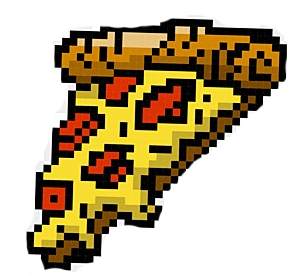
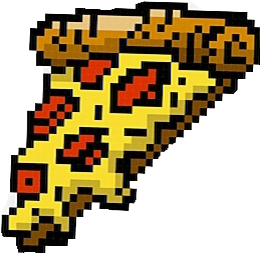
made some changes to pizza finished view and was working on the lose view

diff --git a/src/application/application.css b/src/application/application.css
@@ -148,3 +148,11 @@ Text {
     -fx-background-color: #ba3702;
     -fx-background-insets: 1;
 }
+
+#gameOverLabel{
+	-fx-font-family: "Benguiat";
+    -fx-font-size: 40px;
+    -fx-text-fill: white;
+}
+
+

diff --git a/src/application/controller/LoseViewController.java b/src/application/controller/LoseViewController.java
@@ -1,9 +1,12 @@
 package application.controller;
 
+import java.io.FileNotFoundException;
 import java.net.URL;
 import java.util.ResourceBundle;
 
 import application.Main;
+import javafx.animation.FadeTransition;
+import javafx.animation.RotateTransition;
 import javafx.event.ActionEvent;
 import javafx.fxml.FXML;
 import javafx.fxml.FXMLLoader;
@@ -15,6 +18,8 @@ import javafx.scene.control.Label;
 import javafx.scene.image.Image;
 import javafx.scene.image.ImageView;
 import javafx.scene.media.MediaView;
+import javafx.stage.Stage;
+import javafx.util.Duration;
 
 /**
  * Shows the user a fake loading animation screen with some tips for the game to
@@ -24,18 +29,19 @@ import javafx.scene.media.MediaView;
  * as not to overcrowd the start to the game. 
  * 
  * @author Amalia Talijancic
+ * @author Sarah Halverson(llv920)
  *
  */
 public class LoseViewController extends Controller implements Initializable {
 
     @FXML
-    Button tryAgainButton;
+    Button tryAgainButton, exitButton;
 
     @FXML
-    Label tipOneLabel;
+    Label tipOneLabel, gameOverLabel;
 
     @FXML
-    ImageView vecnaImageView;
+    ImageView vecnaImageView, vecnaImage;
 
     @FXML
     Image vecnaPixelImage;
@@ -46,11 +52,30 @@ public class LoseViewController extends Controller implements Initializable {
     // private static final String MEDIA_URL=
     // "src/application/videos/ArgleMission.mp4";
 
+    
     @Override
     public void initialize(URL location, ResourceBundle resources) {
 //        playVideo("mainMenuBackground, -1, backgroundMedia);
 
         playVideo("ClipChampRedBar", 1, mediaLoading);
+        
+//		RotateTransition rotate=new RotateTransition(Duration.seconds(4), vecnaImage);
+//		rotate.setFromAngle(0);
+//		rotate.setToAngle(360);
+//		rotate.setAutoReverse(true);
+//		rotate.setCycleCount(RotateTransition.INDEFINITE);
+//		rotate.play();
+        
+		RotateTransition rotate1=new RotateTransition(Duration.seconds(4), gameOverLabel);
+		rotate1.setFromAngle(0);
+		rotate1.setToAngle(360);
+		rotate1.setAutoReverse(true);
+		rotate1.setCycleCount(RotateTransition.INDEFINITE);
+		rotate1.play();
+        
+		
+       
+        
 
 //		System.out.println(location.toString());
 //		System.out.println(this.getClass().getResource(MEDIA_URL).toExternalForm());
@@ -61,16 +86,27 @@ public class LoseViewController extends Controller implements Initializable {
     }
 
     public void handle(ActionEvent event) {
-        try {
+      
+    	try {
 
-            // Determines which button was pushed and loads that FXML Scene.
+            // Determine which button was pressed.
             Button buttonPushed = (Button) event.getSource();
 
             String newScene = "";
 
+            // Determines which button was pushed and loads that FXML Scene.
             if (buttonPushed.getId().equals("tryAgainButton")) {
                 newScene = "MainView.fxml";
+            } else if (buttonPushed.getId().equals("exitButton")) {
+                newScene = null;
+            } else if (buttonPushed.getId().equals(null)) {
+                System.out.println("IT'S ALL WRONG, WHAT HAVE YOU DONE!!!");
+            }
 
+            if (newScene == null) {
+                Stage stage = (Stage) exitButton.getScene().getWindow();
+                stage.close();
+            } else {
                 // Connect to the FXML (contains our layout) and load it in.
                 Parent root = FXMLLoader.load(Main.class.getResource("view/" + newScene));
 
@@ -79,11 +115,40 @@ public class LoseViewController extends Controller implements Initializable {
 
                 // Set the scene on the stage that was created in Main.java.
                 Main.stage.setScene(scene);
+                try {
+                    setCursor("normalClick");
+                } catch (FileNotFoundException e) {
+                    e.printStackTrace();
+                }
                 Main.stage.show();
 
             }
-        } catch (Exception e) {
+        } catch (
 
+        Exception e) {
+            e.printStackTrace();
+        }
+    }
+    /**
+     * Event listener to play a sound effect for when a user hovers over a button.
+     */
+    public void handleButtonEntered() {
+        playSound("buttonhover");
+        try {
+            setCursor("normalClick");
+        } catch (FileNotFoundException e) {
+            e.printStackTrace();
+        }
+    }
+
+    /**
+     * Event Listener for when a button is exited.
+     */
+    public void handleButtonExit() {
+        try {
+            setCursor("normalSelect");
+        } catch (FileNotFoundException e) {
+            e.printStackTrace();
         }
     }
 }

diff --git a/src/application/controller/PizzaFinishedController.java b/src/application/controller/PizzaFinishedController.java
@@ -1,19 +1,24 @@
 package application.controller;
 
 import java.io.FileNotFoundException;
+import java.net.URL;
+import java.util.ResourceBundle;
 
 import application.Main;
+import javafx.animation.RotateTransition;
 //import javafx.application.Platform;
 import javafx.event.ActionEvent;
 import javafx.event.EventHandler;
 import javafx.fxml.FXML;
 import javafx.fxml.FXMLLoader;
+import javafx.fxml.Initializable;
 import javafx.scene.Parent;
 import javafx.scene.Scene;
 import javafx.scene.control.Button;
 import javafx.scene.image.ImageView;
 import javafx.scene.text.Text;
 import javafx.stage.Stage;
+import javafx.util.Duration;
 
 /**
  * Allows user to either go back home, or go back to the GameView.fxml and make
@@ -21,9 +26,10 @@ import javafx.stage.Stage;
  * 
  * @author Amalia Talijancic
  * @author Danny Ghrist (kda458)
+ * @author Sarah Halverson (llv920)
  *
  */
-public class PizzaFinishedController extends Controller implements EventHandler<ActionEvent> {
+public class PizzaFinishedController extends Controller implements EventHandler<ActionEvent>, Initializable {
 
     @FXML
     private Button homeButton, morePizzaButton, exitButton;
@@ -32,7 +38,7 @@ public class PizzaFinishedController extends Controller implements EventHandler<
     private Text hoorayPizzaFinishedText;
 
     @FXML
-    private ImageView winArgyle;
+    private ImageView winArgyle, winPizza, winPizza1;
 
 //    @FXML
 //    private MediaPlayer mediaSFX;
@@ -48,6 +54,31 @@ public class PizzaFinishedController extends Controller implements EventHandler<
      * 
      * @param event Listens for button push event (ActionEvent)
      */
+    
+    
+    /**
+     * Rotates pizzas on the screen.
+     */
+	@Override
+	public void initialize(URL location, ResourceBundle resources) {
+    
+		RotateTransition rotate=new RotateTransition(Duration.seconds(3), winPizza);
+		rotate.setFromAngle(0);
+		rotate.setToAngle(360);
+		rotate.setAutoReverse(true);
+		rotate.setCycleCount(RotateTransition.INDEFINITE);
+		rotate.play();
+		
+		
+		RotateTransition rotate1=new RotateTransition(Duration.seconds(3), winPizza1);
+		rotate1.setFromAngle(0);
+		rotate1.setToAngle(360);
+		rotate1.setAutoReverse(true);
+		rotate1.setCycleCount(RotateTransition.INDEFINITE);
+		rotate1.play();
+	}
+    
+    
     @Override
     public void handle(ActionEvent event) {
         try {
@@ -121,4 +152,5 @@ public class PizzaFinishedController extends Controller implements EventHandler<
             e.printStackTrace();
         }
     }
+
 }

diff --git a/src/application/controller/GameViewController.java b/src/application/controller/GameViewController.java
@@ -49,6 +49,9 @@ import javafx.scene.text.Text;
  */
 public class GameViewController extends Controller implements EventHandler<ActionEvent>, Initializable {
 
+//	final static int COUNTDOWN_MINUTES = 0;
+	//testing purposes (will change)
+	
     final static int COUNTDOWN_MINUTES = 5;
     final static int TIME_REDUCTION_FOR_ERROR = 30;
 
@@ -67,6 +70,7 @@ public class GameViewController extends Controller implements EventHandler<Actio
     @FXML
     private ImageView doughImage, vecnaClockImage, sauceImage, topping1Image, topping2Image, topping3Image,
             topping4Image, sauceTarget, topping1Target, topping2Target, topping3Target, topping4Target;
+    
 
     @FXML
     private Label pizzaLabel, ingredient1Label, ingredient2Label, ingredient3Label, ingredient4Label, ingredient5Label,
